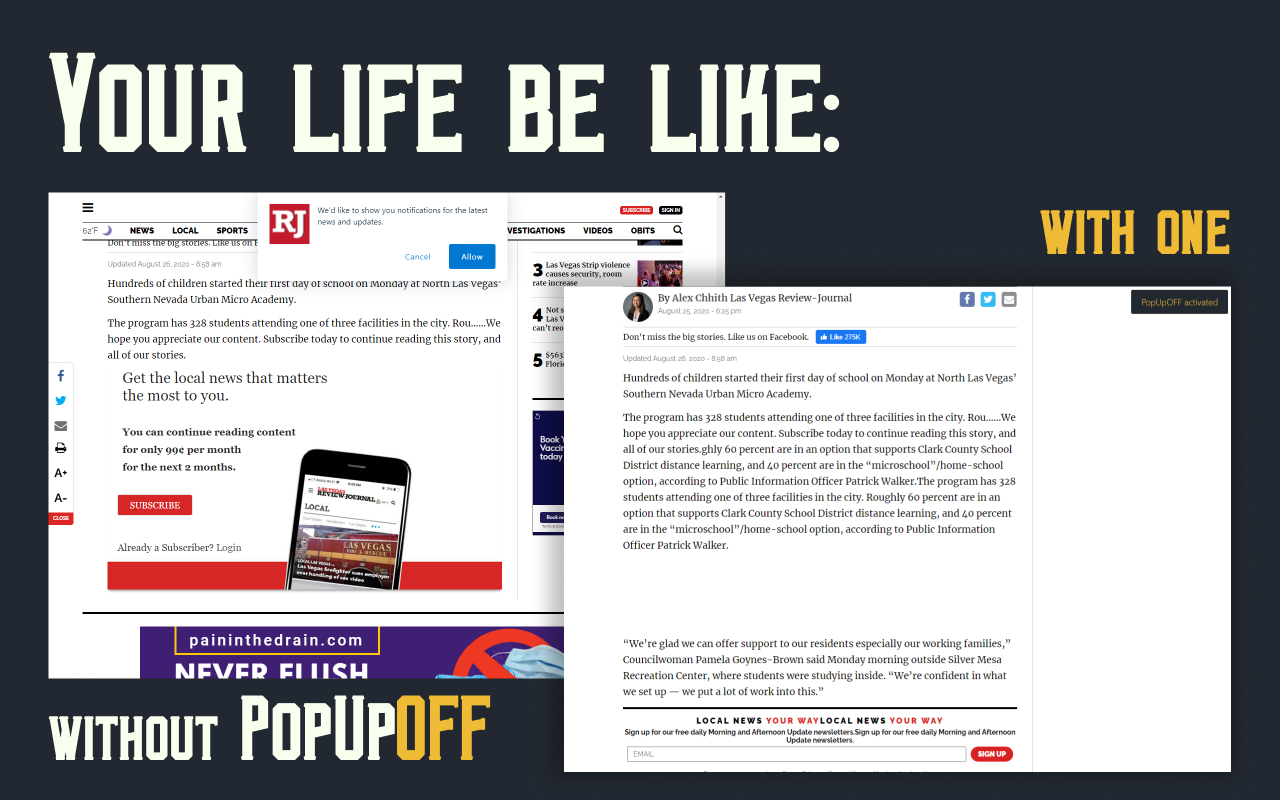
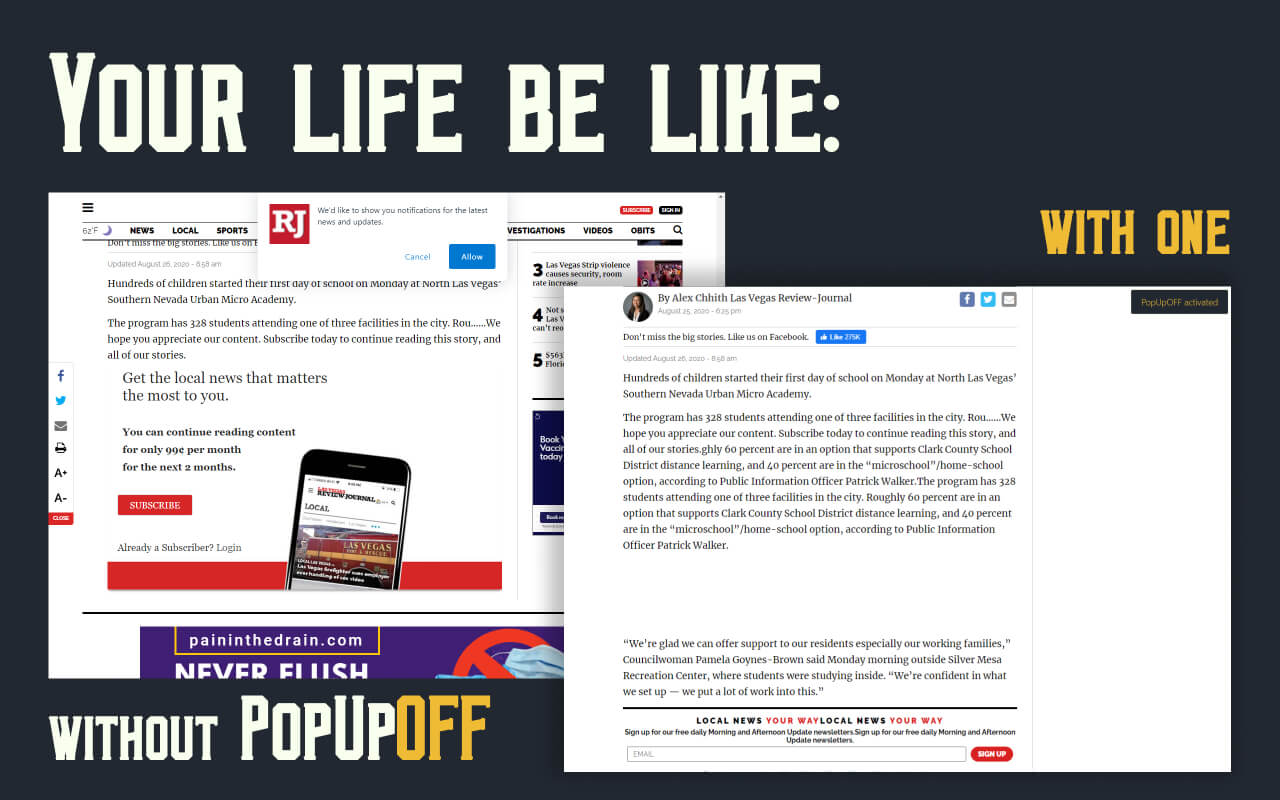
update images and updates page

diff --git a/src/static/updates.js b/src/static/updates.js
@@ -130,8 +130,46 @@ const updates = {
                 <a href="mailto:romanisthere@gmail.com" class="link">RomanistHere@gmail.com</a>
             </li>
         </ul>
+
+        <h3 class="article__subtitle" id="1.1.7">1.1.7</h3>
+
+        <ul class="article__list article__text">
+            <li class="article__list_item">
+                "Prevent paid content from hiding" improved;
+            </li>
+            <li class="article__list_item">
+                Instructions updated (new tutorial);
+            </li>
+            <li class="article__list_item">
+                Bug with stats fixed;
+            </li>
+        </ul>
+
+        <div class="article__img_wr">
+            <img
+                src="../../../assets/updates/newspapers.jpg"
+                class="article__img_small"
+                width="450"
+                alt="available newspapers"
+                loading="lazy">
+        </div>
+
+        <p class="article__text">Thank you for your feedback guys. <strong class="article__col-4">Together</strong> we have discovered a few more websites, where new prevent-content feature didn't work. It will now. <strong class="article__col-4">PopUpOFF is cleaning a few more restrictions up now</strong>. Have a look yourself:
+            <a class="link" target="_blank" rel="noreferrer" href="https://www.theguardian.com/international">The Guardian</a>,
+            <a class="link" target="_blank" rel="noreferrer" href="https://www.bostonglobe.com/">The Boston Globe</a>,
+            <a class="link" target="_blank" rel="noreferrer" href="https://www.economist.com/">The Economist</a>,
+            <a class="link" target="_blank" rel="noreferrer" href="https://www.reviewjournal.com/">Review-journal</a>,
+            <a class="link" target="_blank" rel="noreferrer" href="https://ccheadliner.com/">CCHeadliner</a>
+        - just make sure you are <a class="link" href="/posts/prev-cont/">using it right</a>:)
+        </p>
+
+        <p class="article__text">There is a <a class="link" href="/posts/popupoff-tutorial/">new tutorial</a> that covers all the features. Squeeze up <strong class="article__col-4">the maximum value</strong> from the extension.</p>
+
+        <p class="article__text">If you experienced any weird behaviour with the stats, I'm sorry. Fixed it.</p>
+
+        <p class="article__text"><a href="https://twitter.com/RomanistHere"  rel="noreferrer" target="_blank" class="link">Join us</a> in improving the web! And I hope, next time you will read something from this page - it will be about automatic mode.</p>
     `,
-    posted: `Updated: Sep 8, 2020`,
+    posted: `Updated: Sep 16, 2020`,
 }
 
 // Legend:
